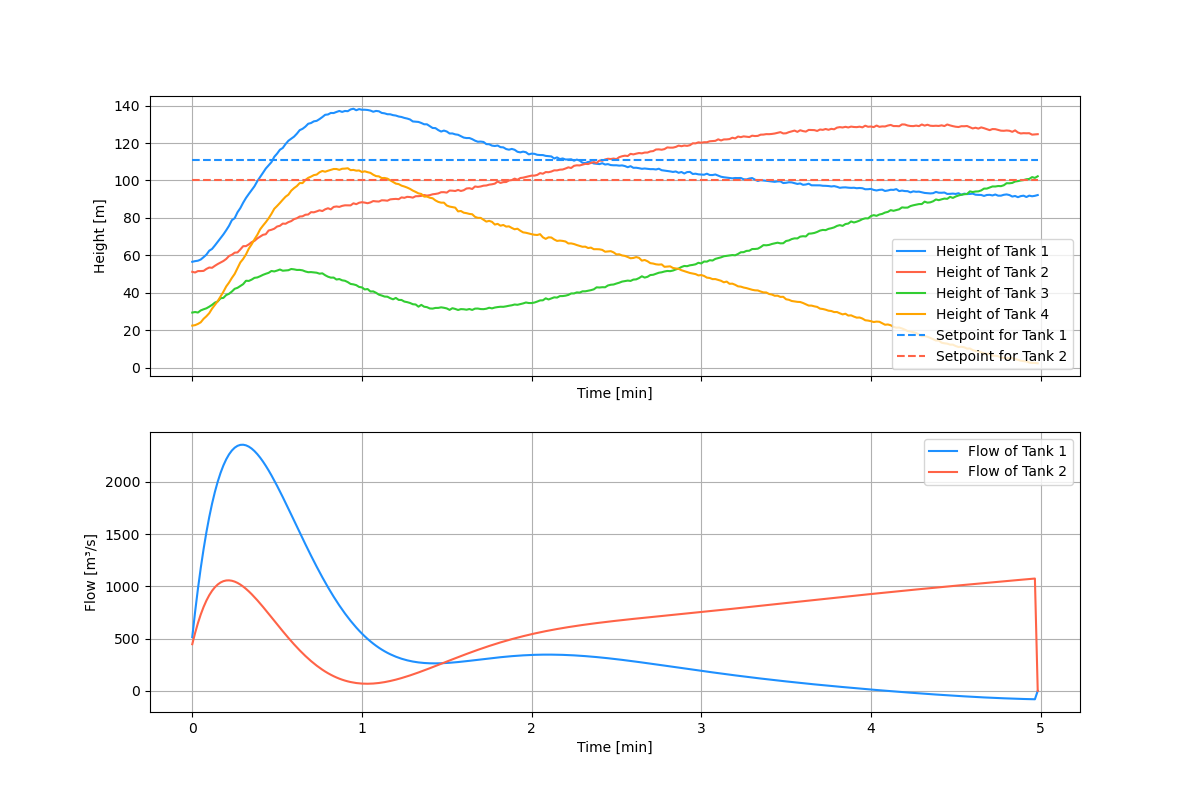
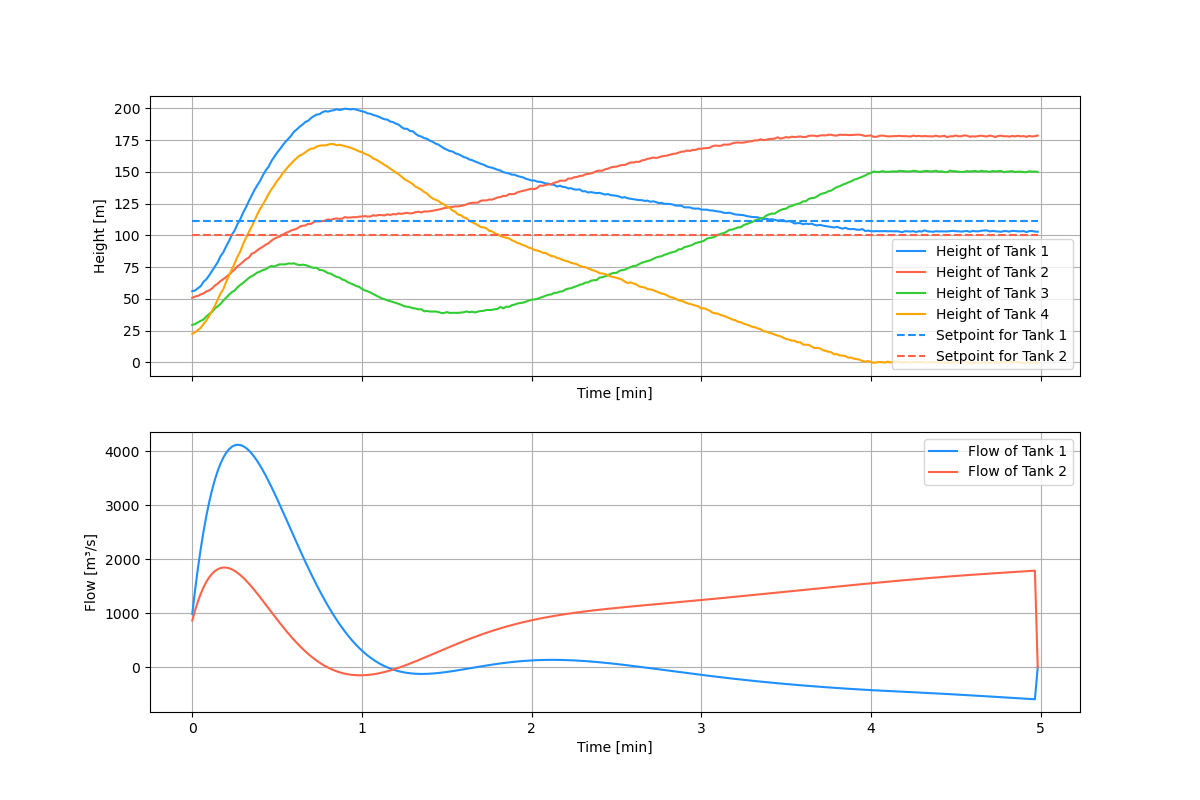
Maybe Problems

diff --git a/src/MPC.py b/src/MPC.py
@@ -94,7 +94,7 @@ class MPC:
         self.Wdu = Wdu
         self.C = C
         self.A = A
-        self.G = G
+        self.G = G # or E
         self.B = B
         self.Q = Q
         self.R = R
@@ -119,8 +119,8 @@ class MPC:
         self.Pk = self.compute_Pk()        # Initial covariance matrix for Kalman filter
         self.Umin = self.compute_Umin(Umin)
         self.Umax = self.compute_Umax(Umax)
-        self.Dmin = self.compute_Dmin(Dmin)
-        self.Dmax = self.compute_Dmax(Dmax)
+        self.Dmin = self.compute_Dmin(Dmin) # delta u min
+        self.Dmax = self.compute_Dmax(Dmax) # delta u max
         self.Rmax = self.compute_Rmax(Rmax)
         self.Rmin = self.compute_Rmin(Rmin)
         self.I0 = self.compute_I0()
@@ -130,52 +130,47 @@ class MPC:
         self.set_xk(x0)
 
     def _initialize(self):
-        if self.problem == "Problem 4":
-            self.uadd = np.array([250, 325])
-
-        else:
-            self.uadd = np.zeros(2)
+        self.uadd = np.array([250, 325])
 
     def set_xk(self, xk):
-        if self.problem == "Problem 4":
-            self.xk = xk
-            self.xk_mpc = np.zeros(4)
+        self.xk = xk
+        self.xk_mpc = np.zeros(self.A.shape[0]) # xk_mpc = 0
 
-            if self.Rmin is not None:
-                self.Rmin = self.Rmin - np.tile(self.hadd, self.N)
-            if self.Rmax is not None:
-                self.Rmax = self.Rmax - np.tile(self.hadd, self.N)
-            if self.Umin is not None:
-                self.Umin = self.Umin - np.tile(self.uadd, self.N)
-            if self.Umax is not None:
-                self.Umax = self.Umax - np.tile(self.uadd, self.N)
-        else:
-            self.xk = xk
-            self.xk_mpc = xk
+        if self.Rmin is not None:
+            self.Rmin = self.Rmin - np.tile(self.hadd, self.N)
+        if self.Rmax is not None:
+            self.Rmax = self.Rmax - np.tile(self.hadd, self.N)
+        if self.Umin is not None:
+            self.Umin = self.Umin - np.tile(self.uadd, self.N)
+        if self.Umax is not None:
+            self.Umax = self.Umax - np.tile(self.uadd, self.N)
+
         self.predicted_x_mpc.append(self.xk_mpc)
         self.predicted_y_mpc.append(self.C@self.xk_mpc)
         self.predicted_Px.append(self.Pk)
         self.predicted_Py.append(self.C@self.Pk@self.C.T)
+
     def _compute_Rbar(self, Rbar):
-        if self.problem == "Problem 4":
-            return (Rbar - self.hadd).flatten()
-        else:
-            return Rbar.flatten()
+        return (Rbar - self.hadd).flatten()
+
     def _compute_Ubar(self, Ubar):
-        if self.problem == "Problem 4":
-            return (Ubar - self.uadd).flatten()
-        else:
-            return Ubar.flatten()
+        return (Ubar - self.uadd).flatten()
+
     def set_umin(self, Umin):
         self.Umin = self.compute_Umin(Umin)
+
     def set_umax(self, Umax):
         self.Umax = self.compute_Umax(Umax)
+
     def set_dmin(self, Dmin):
         self.Dmin = self.compute_Dmin(Dmin)
+
     def set_dmax(self, Dmax):
         self.Dmax = self.compute_Dmax(Dmax)
+
     def set_rmax(self, Rmax):
         self.Rmax = self.compute_Rmax(Rmax)
+
     def set_rmin(self, Rmin):
         self.Rmin = self.compute_Rmin(Rmin)
 
@@ -423,6 +418,7 @@ class MPC:
                     Lamb[row_idx, row_idx] = 1.0  # Current input
                     Lamb[row_idx, (i-1)*self.ninput + j] = -1.0  # Previous input (same input channel)
         return Lamb
+
     def compute_I0(self):
         I0 = np.block([np.eye(self.ninput) if i == 0 else np.zeros((self.ninput, self.ninput)) for i in range(self.N)]).T
         return I0
@@ -731,7 +727,7 @@ class MPC:
         xk_new, Pk_new = KalmanFilterUpdate(
             xt=self.xk_mpc,      # Current state estimate
             ut=self.uk,      # Current input
-            yt=zk - self.hadd,           # Current measurement
+            yt=zk - self.hadd,           # Current measurement # hadd = hs = ys[:2]
             A=self.A,        # State transition matrix
             B=self.B,        # Input matrix
             C=self.C,        # Output matrix
@@ -763,6 +759,7 @@ class MPC:
         """
         # Update state estimate with new measurement
         self.xk_mpc = self.KalmanFilterUpdate(zk)
+
         self.predicted_x_mpc.append(self.xk_mpc)
         self.predicted_y_mpc.append(self.C@self.xk_mpc)
         self.predicted_Px.append(self.Pk)

diff --git a/Problem_8_5.py b/Problem_8_5.py
@@ -5,20 +5,20 @@ from params.initialize import initialize
 import matplotlib.pyplot as plt
 import sys
 
-def F3_func(t):
-    if t < 250:
-        return 100
-    else:
-        return 50
-    return 100
+# def F3_func(t):
+#     if t < 250:
+#         return 100
+#     else:
+#         return 50
+#     return 100
 
 
-def F4_func(t):
-    if t < 250:
-        return 120
-    else:
-        return 50
-    return 120
+# def F4_func(t):
+#     if t < 250:
+#         return 120
+#     else:
+#         return 50
+#     return 120
 
 
 if __name__ == "__main__":
@@ -27,7 +27,7 @@ if __name__ == "__main__":
     print(f"Simulating: {problem}")
     
     x0, us, ds, p, R, R_d, delta_t = initialize()
-    Model_Stochastic = FourTankSystem(R_s=R, R_d=R_d*0, p=p, delta_t=delta_t, F3=F3_func, F4=F4_func)
+    Model_Stochastic = FourTankSystem(R_s=R, R_d=R_d*0, p=p, delta_t=delta_t, F3=lambda t: 100, F4=lambda t: 120)
     x0 = np.concatenate((x0, ds))
     xs = Model_Stochastic.GetSteadyState(x0, us)
     data_prob5 = np.load(r"Results\Problem5\Problem_5_estimates.npz")
@@ -100,7 +100,8 @@ if __name__ == "__main__":
     axes[1].grid(True)
     fig.savefig(f'figures/Problem8/Problem_8_Heights_5.png')
     plt.close()
-
+    
+    hs = h[1:2,0]
     
     predicted_x_mpc = np.array(mpc_controller.predicted_x_mpc)
     predicted_y_mpc = np.array(mpc_controller.predicted_y_mpc)
@@ -123,12 +124,12 @@ if __name__ == "__main__":
     axes[0].grid(True)
     axes[0].set_title('System states')
     
-    axes[1].plot(t/60, predicted_y_mpc[:, 0], label='Predicted Output Tank 1', color='dodgerblue', ls='-.' )
-    axes[1].plot(t/60, predicted_y_mpc[:, 1], label='Predicted Output Tank 2', color='tomato', ls='-.' )
+    axes[1].plot(t/60, predicted_y_mpc[:, 0] + hs[0], label='Predicted Output Tank 1', color='dodgerblue', ls='-.' )
+    axes[1].plot(t/60, predicted_y_mpc[:, 1] + hs[1], label='Predicted Output Tank 2', color='tomato', ls='-.' )
     
 
-    axes[1].fill_between(t/60, predicted_y_mpc[:, 0] - 2*np.sqrt(predicted_Py[:, 0, 0]), predicted_y_mpc[:, 0] + 2*np.sqrt(predicted_Py[:, 0, 0]), color='dodgerblue', alpha=0.2)
-    axes[1].fill_between(t/60, predicted_y_mpc[:, 1] - 2*np.sqrt(predicted_Py[:, 1, 1]), predicted_y_mpc[:, 1] + 2*np.sqrt(predicted_Py[:, 1, 1]), color='tomato', alpha=0.2)
+    axes[1].fill_between(t/60, predicted_y_mpc[:, 0] + hs[0] - 2*np.sqrt(predicted_Py[:, 0, 0]), predicted_y_mpc[:, 0] + hs[0] + 2*np.sqrt(predicted_Py[:, 0, 0]), color='dodgerblue', alpha=0.2)
+    axes[1].fill_between(t/60, predicted_y_mpc[:, 1] + hs[1] - 2*np.sqrt(predicted_Py[:, 1, 1]), predicted_y_mpc[:, 1] + hs[1] + 2*np.sqrt(predicted_Py[:, 1, 1]), color='tomato', alpha=0.2)
     
     axes[1].plot(t/60, h[0, :], label='Actual Tank 1', color='dodgerblue')
     axes[1].plot(t/60, h[1, :], label='Actual Tank 2', color='tomato')

diff --git a/Problem_6.py b/Problem_6.py
@@ -47,7 +47,7 @@ x0, us, ds, p , R, R_d, delta_t = initialize()
 Model_Stochastic = FourTankSystem(R_s=R, R_d=R_d*0, p=p, delta_t=delta_t,F3=F3_func,F4=F4_func)
 
 # Discrete Kalman filter parameters 
-x0 = np.concatenate((x0, ds))  
+x0 = np.concatenate((x0, ds))
 xs = Model_Stochastic.GetSteadyState(x0, us)
 Ad, Bd, Ed, C, Cz = Model_Stochastic.LinearizeDiscreteTime(xs, ds, Ts)
 
@@ -57,7 +57,7 @@ Tf = 500
 N = int(Tf/delta_t)
 t = np.arange(0, Tf, delta_t)
 xt = x0.copy()-xs.copy()
-xt_hat = x0.copy()-xs.copy()
+xt_hat = x0.copy()-xs.copy() ## x0 - xs. x0 < xs ---> x0 - xs < 0; SYSTEMET ---> 0: z = Cx ## F3_1 > F3_2
 
 X = np.zeros([N-1,4])
 Z = np.zeros([N-1,2])
@@ -98,8 +98,8 @@ for t_idx,t_val in enumerate(t[:-1]):
         zt = discrete_output_update(C_use, xt, V[t_idx][:-2]) 
         
     else:
-        yt = Model_Stochastic.StateSensor(xt[:4])
-        zt = yt[:2]
+        yt = Model_Stochastic.StateSensor(xt[:4]) ## _y_ = C_x_ = C(x - xs) = Cx0 - Cxs = y - ys
+        zt = yt[:2] # in normalized
 
     # Designed with linear system 
     xt_hat, P = KalmanFilterUpdate(xt_hat, us*0, zt, A_use, B_use, C_use, P, Q, R[:2,:2], stationary=static)
@@ -124,7 +124,7 @@ for t_idx,t_val in enumerate(t[:-1]):
     else:
         f = Model_Stochastic.FullEquation
         sol = solve_ivp(f, (t_val, t_val+delta_t), xt+xs, method='RK45',args = (us,))
-        xt = sol.y[:,-1]-xs
+        xt = sol.y[:,-1] - xs
 
 fig, ax = plt.subplots(4, 1, figsize=(12, 12))  
 for i in range(4): 

diff --git a/Problem_4_3rd.py b/Problem_4_3rd.py
@@ -35,6 +35,17 @@ A = np.block([
     [A,              G],
     [np.zeros((G.shape[1], A.shape[0])), np.eye(G.shape[1])]
 ])
+
+### [A, G] [x]                                    [0]
+### [0, I] [bar_d]  #### d = [bar_F3, bar_F4]     [Sigma]
+
+### [0, 0]
+### [0, 0]
+### [0, 0]
+### [0, 0]
+### [Sigma, 0]
+### [0, Sigma]
+
 B = np.block([
     [B],
     [np.zeros((G.shape[1], B.shape[1]))]

diff --git a/Problem_8_4.py b/Problem_8_4.py
@@ -68,9 +68,9 @@ if __name__ == "__main__":
         w0=ds,
         U_bar=U_bar,
         R_bar=R_bar,
-        A=Ad, 
-        B=Bd, 
-        C=Cz, 
+        A=Ad,
+        B=Bd,
+        C=Cz,
         G=G,
         Q=Q,
         R=R,
